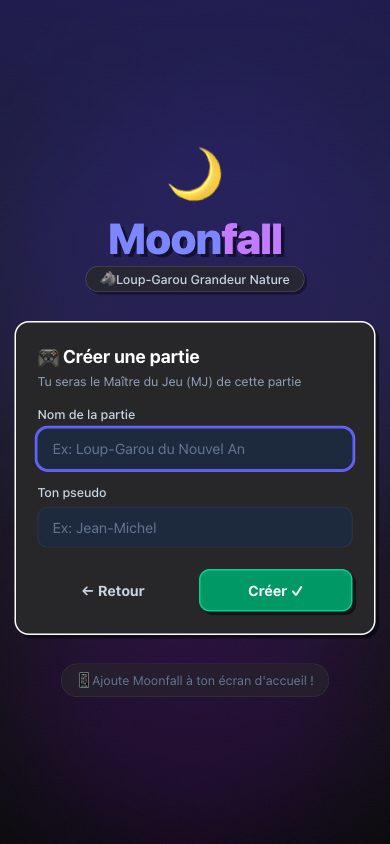
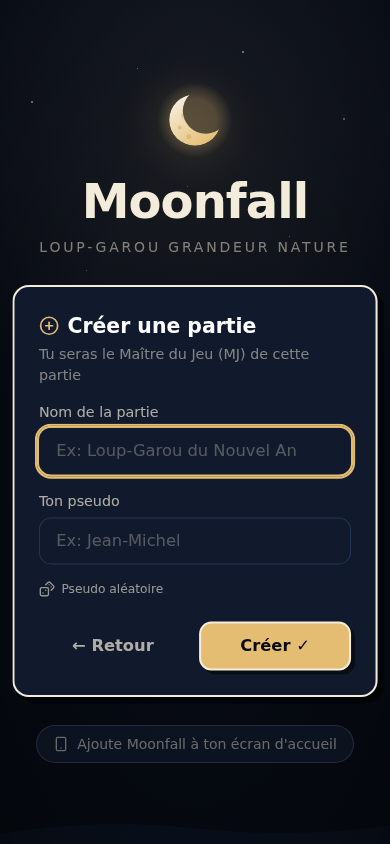
docs(tutorial): captures du tutoriel régénérées pour le nouveau design
Les 10 captures de public/tutorial/ montraient l'ancien design (avant
QR de lobby, avatars, procès et refonte mobile). Elles sont refaites,
et un script committé rend l'opération systématique :

- scripts/tutorial-screenshots.mjs (npm run tutorial:shots) : crée une
  vraie partie « Partie Tutorial » via l'API, la pilote jusqu'au
  conseil, capture accueil / création / lobby / nuit / jour / conseil /
  galerie de rôles en 390x844, puis termine la partie. Chromium du
  cloud ou Chrome local ; les requêtes Supabase du navigateur sont
  relayées par Node (l'egress cloud ne laisse pas passer Chromium).
- playwright-core en devDependency
- CLAUDE.md : régénérer les captures est obligatoire après tout
  changement visuel

Claude-Session: https://claude.ai/code/session_01KHvLGHLSjJEihCSzYBhUzG

diff --git a/CLAUDE.md b/CLAUDE.md
@@ -34,9 +34,14 @@ Storage, Edge Functions) · Web Push VAPID · Sentry · Vercel (CD sur main) · 
 - `npm run scenarios` — runner de scénarios API (logique de jeu de bout en bout,
   dev server requis ; voir `docs/SCENARIOS.md`) · `npm run test:unit` — tests
   unitaires des fonctions pures (`node --test`, zéro dépendance).
+- `npm run tutorial:shots` — régénère les captures du tutoriel
+  (`public/tutorial/`, dev server requis). **Obligatoire après tout changement
+  visuel** (accueil, lobby, écrans de phase, galerie de rôles) : la page
+  `/tutorial` montre ces captures, elles doivent suivre le design.
 - Validation avant push : tsc + build + lint, scénarios verts pour tout
-  changement de logique de jeu, et parcours visuel du mode Démo (partie avec
-  bots, `/api/games/[code]/bots`) pour les changements d'UI.
+  changement de logique de jeu, et pour les changements d'UI : parcours visuel
+  du mode Démo (partie avec bots, `/api/games/[code]/bots`) + captures du
+  tutoriel régénérées.
 - Env local : `cp .env.local.example .env.local` (les clés `NEXT_PUBLIC_SUPABASE_*`
   sont publiques by design ; `SUPABASE_SERVICE_ROLE_KEY` ne quitte jamais
   Vercel/local).
